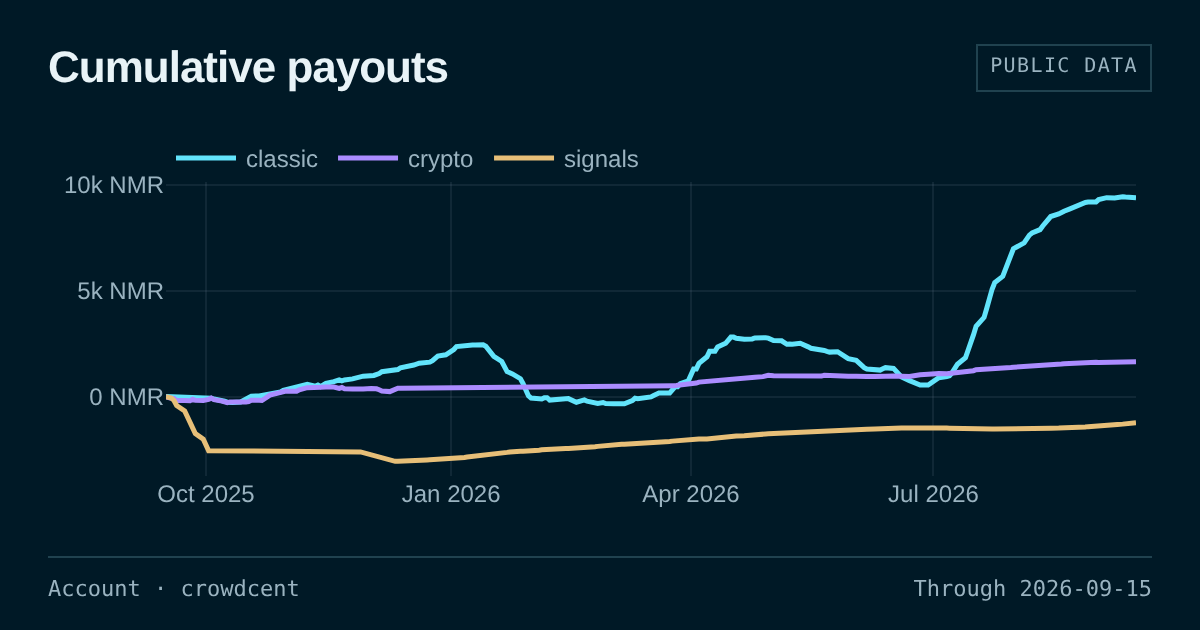
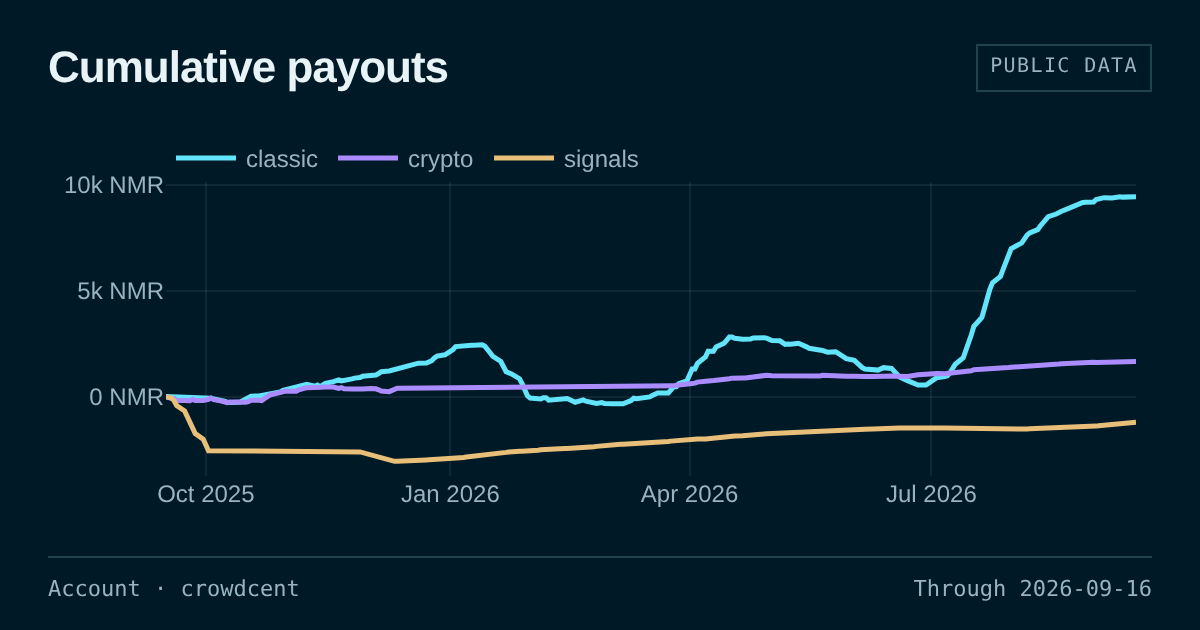
Numerai dashboard: the helper is named for what it does, not like a package (#3)
* Numerai dashboard: the helper is named for what it does, not like a package

The browser installs any import it cannot find from PyPI, so a helper called
numerai.py beside the notebook was looked up there and the recipe never
reached Numerai. It is numerai_graphql.py now, the rule is in CONTRIBUTING,
and the thumbnail is recaptured from the live account.

* Numerai dashboard: the relay post is a plain form, which is what urllib3 sends

The tab's relay branch passed urllib3.request a keyword it does not take, so
the first query from a browser never left the notebook. The relay reads a
form; the helper now sends one.

---------

diff --git a/recipes/numerai_dashboard/numerai_dashboard.py b/recipes/numerai_dashboard/numerai_dashboard.py
@@ -38,9 +38,9 @@ def _():
     import plotly.express as px
     import polars as pl
 
-    import numerai
+    import numerai_graphql
 
-    return mo, numerai, os, pl, px
+    return mo, numerai_graphql, os, pl, px
 
 
 @app.cell
@@ -67,14 +67,14 @@ def _(mo):
 
 
 @app.cell
-def _(account, mo, numerai, os):
+def _(account, mo, numerai_graphql, os):
     account_name = mo.cli_args().get("account") or account.value
     mo.stop(
         not account_name and not os.environ.get("CROWDCENT_RUN_ID"),
         mo.md("Press **Go** to read the account."),
     )
     account_name = str(account_name or "crowdcent").strip()
-    models = numerai.models(account_name)
+    models = numerai_graphql.models(account_name)
     mo.stop(
         models.is_empty(),
         mo.md(f"Numerai has no models under **{account_name}**."),
@@ -82,7 +82,7 @@ def _(account, mo, numerai, os):
     with mo.status.progress_bar(
         total=len(models), title="Reading rounds", remove_on_exit=True
     ) as bar:
-        rounds = numerai.rounds(models, tick=bar.update)
+        rounds = numerai_graphql.rounds(models, tick=bar.update)
     return models, rounds
 
 
@@ -185,9 +185,9 @@ def _(mo, models):
 
 
 @app.cell
-def _(chart, mo, numerai, picker, pl, px):
+def _(chart, mo, numerai_graphql, picker, pl, px):
     model, tournament = picker.value
-    scored = numerai.scores(model, tournament).with_columns(
+    scored = numerai_graphql.scores(model, tournament).with_columns(
         pl.col("value", "percentile").rolling_mean(20).over("metric")
     )
     values = px.line(scored, x="date", y="value", color="metric")

diff --git a/recipes/numerai_dashboard/numerai_graphql.py b/recipes/numerai_dashboard/numerai_graphql.py
@@ -2,6 +2,7 @@
 
 import json
 import time
+import urllib.parse
 import warnings
 
 import polars as pl
@@ -29,11 +30,12 @@ def _post(document):
 
     params = mo.query_params() if mo.running_in_notebook() else {}
     if params.get("site"):
+        form = {"body": json.dumps(document), "grant": params.get("g") or ""}
         answer = urllib3.request(
             "POST",
             f"{params['site']}/cloud/relay/{HOST}/",
-            fields={"body": json.dumps(document), "grant": params.get("g") or ""},
-            encode_multipart=False,
+            body=urllib.parse.urlencode(form),
+            headers={"Content-Type": "application/x-www-form-urlencoded"},
             timeout=60,
         )
     else:

diff --git a/CONTRIBUTING.md b/CONTRIBUTING.md
@@ -154,6 +154,9 @@ artifact delivery, or the next occurrence of a schedule.
   Describe automatic submissions in the notebook's introduction.
 - Helpers hold the plumbing; the notebook holds the story. If a cell needs a
   comment to explain what it does, move that code into a helper.
+- Name a helper for what it does, never like a package. The browser installs
+  any import it cannot find from PyPI, so `numerai.py` would be looked up
+  there; `numerai_graphql.py` is unmistakably the file beside the notebook.
 - A form with complete defaults can run unattended without parameters:
   `answered = dict(mo.cli_args()) or form.value`, then
   `mo.stop(not answered and not os.environ.get("CROWDCENT_RUN_ID"), ...)`
